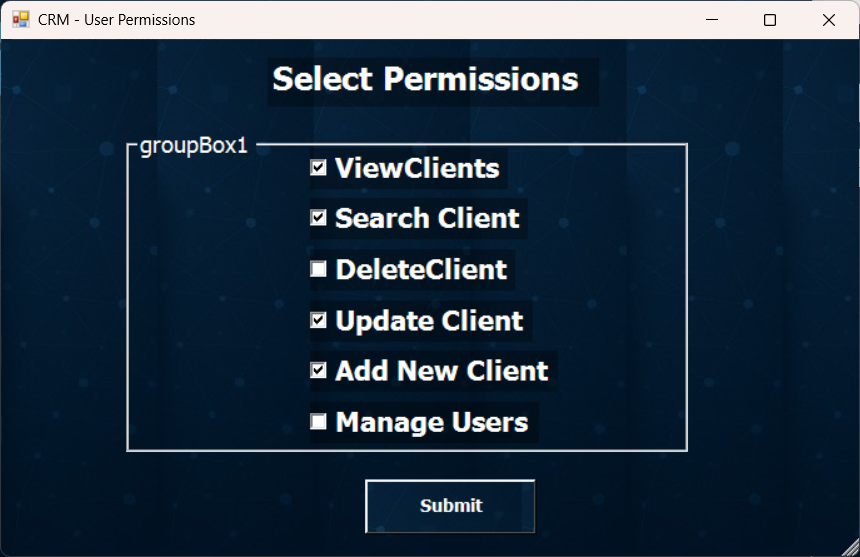
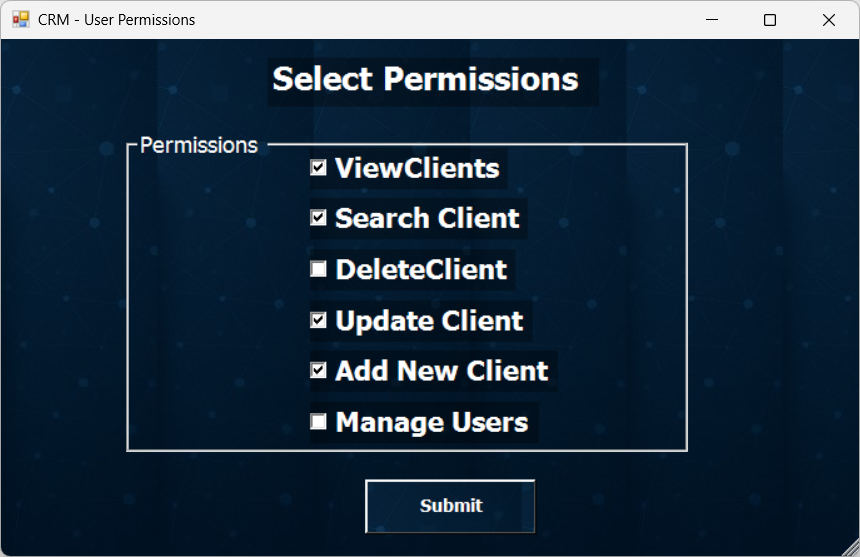
chore(ui): polish visible form labels
- The permission check boxes were grouped under the designer default
  caption "groupBox1"; it now reads "Permissions".
- The Main screen title ("Client Management Panel") is enlarged to
  Segoe UI 28 bold at load, which needs 2px more height than its label
  had, so the bottom of the text was clipped. The label is 4px taller in
  the designer; nothing else moves.
- Recapture the four screenshots affected: user permissions, plus find
  client, add user and delete user, whose previous captures picked up
  stray pixels from behind the window at the frame edge. Same demo
  database, framing and file names.

diff --git a/frmMainScreen/frmMainScreen.Designer.cs b/frmMainScreen/frmMainScreen.Designer.cs
@@ -62,7 +62,7 @@
             this.lbTitle.ForeColor = System.Drawing.Color.White;
             this.lbTitle.Location = new System.Drawing.Point(273, 22);
             this.lbTitle.Name = "lbTitle";
-            this.lbTitle.Size = new System.Drawing.Size(562, 60);
+            this.lbTitle.Size = new System.Drawing.Size(562, 64);
             this.lbTitle.TabIndex = 0;
             this.lbTitle.Text = "Client Management Panel";
             // 

diff --git a/frmPermissions0/frmPermissions.Designer.cs b/frmPermissions0/frmPermissions.Designer.cs
@@ -68,7 +68,7 @@
             this.groupBox1.Size = new System.Drawing.Size(524, 316);
             this.groupBox1.TabIndex = 3;
             this.groupBox1.TabStop = false;
-            this.groupBox1.Text = "groupBox1";
+            this.groupBox1.Text = "Permissions";
             // 
             // chAddNewClient
             // 
